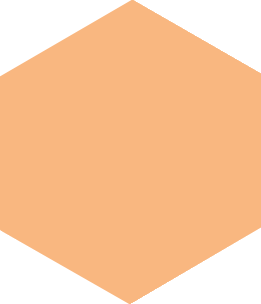
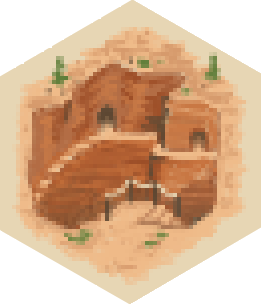
Omen Hand award (5+ cards purchased = 2 VP), brick hex asset and match wood/sheep rendering

diff --git a/src/components/VictoryPointTracker.tsx b/src/components/VictoryPointTracker.tsx
@@ -12,6 +12,9 @@ interface VictoryPointTrackerProps {
   activePlayerIndex: number
   phase: string
   longestRoadPlayerId?: number | null
+  /** Oregon's Omens: player who holds Omen Hand (5+ cards purchased); only shown when true */
+  oregonsOmensEnabled?: boolean
+  omenHandPlayerId?: number | null
 }
 
 function getVPBreakdown(vertices: Record<string, Vertex>, playerId: number) {
@@ -27,7 +30,7 @@ function getVPBreakdown(vertices: Record<string, Vertex>, playerId: number) {
   return { settlements, cities, fromSettlements, fromCities, total: fromSettlements + fromCities }
 }
 
-export function VictoryPointTracker({ vertices, players, activePlayerIndex, phase, longestRoadPlayerId }: VictoryPointTrackerProps) {
+export function VictoryPointTracker({ vertices, players, activePlayerIndex, phase, longestRoadPlayerId, oregonsOmensEnabled, omenHandPlayerId }: VictoryPointTrackerProps) {
   return (
     <div>
       <div style={{ fontSize: 11, fontWeight: 600, color: 'var(--muted)', marginBottom: 4, textTransform: 'uppercase', letterSpacing: '0.06em' }}>
@@ -36,7 +39,9 @@ export function VictoryPointTracker({ vertices, players, activePlayerIndex, phas
       {players.map((p, i) => {
         const { settlements, cities, fromSettlements, fromCities, total } = getVPBreakdown(vertices, p.id)
         const hasLongestRoad = longestRoadPlayerId === p.id
-        const totalWithLongestRoad = total + (hasLongestRoad ? 2 : 0)
+        const hasOmenHand = oregonsOmensEnabled && omenHandPlayerId === p.id
+        const bonusVP = (hasLongestRoad ? 2 : 0) + (hasOmenHand ? 2 : 0)
+        const totalDisplay = total + bonusVP
         const isActive = phase === 'setup' ? activePlayerIndex === i : activePlayerIndex === i
         return (
           <div
@@ -51,7 +56,7 @@ export function VictoryPointTracker({ vertices, players, activePlayerIndex, phas
           >
             <div style={{ display: 'flex', justifyContent: 'space-between', alignItems: 'center', marginBottom: 4 }}>
               <span style={{ fontWeight: 'bold', color: p.color, fontSize: 13 }}>{p.name}</span>
-              <span style={{ fontSize: 14, fontWeight: 600, color: 'var(--text)' }}>{totalWithLongestRoad} VP</span>
+              <span style={{ fontSize: 14, fontWeight: 600, color: 'var(--text)' }}>{totalDisplay} VP</span>
             </div>
             <div style={{ fontSize: 11, color: 'var(--muted)', lineHeight: 1.4 }}>
               {settlements > 0 && (
@@ -63,7 +68,10 @@ export function VictoryPointTracker({ vertices, players, activePlayerIndex, phas
               {hasLongestRoad && (
                 <div style={{ color: '#fbbf24', fontWeight: 600 }}>Longest Road: +2 VP</div>
               )}
-              {settlements === 0 && cities === 0 && !hasLongestRoad && (
+              {hasOmenHand && (
+                <div style={{ color: '#a78bfa', fontWeight: 600 }}>Omen Hand: +2 VP</div>
+              )}
+              {settlements === 0 && cities === 0 && !hasLongestRoad && !hasOmenHand && (
                 <div style={{ fontStyle: 'italic' }}>No structures yet</div>
               )}
             </div>

diff --git a/src/components/MultiplayerGame.tsx b/src/components/MultiplayerGame.tsx
@@ -27,6 +27,7 @@ import {
   getPlayersOnHex,
   stealResource,
   updateLongestRoad,
+  updateOmenHand,
   getTradeRate,
 } from '../game/logic'
 import {
@@ -270,7 +271,9 @@ export function MultiplayerGame({ gameId, myPlayerIndex, initialState }: Props) 
 
   const handleDrawOmenCard = () => {
     if (!isMyTurn || !canDrawOmenCard(game, playerId as PlayerId)) return
-    sendStateUpdate(drawOmenCard(game, playerId as PlayerId))
+    const next = drawOmenCard(game, playerId as PlayerId)
+    updateOmenHand(next)
+    sendStateUpdate(next)
   }
 
   const handlePlayOmenCard = (cardId: string, targets?: PlayOmenTargets) => {
@@ -415,8 +418,11 @@ export function MultiplayerGame({ gameId, myPlayerIndex, initialState }: Props) 
     }
     if (stateAfterTrade) next = { ...stateAfterTrade, players: next.players }
     sendStateUpdate(next)
-    setTradeFormOpen(false)
-    setErrorMessage(null)
+    // Defer closing the trade form to the next frame to avoid Chrome layout/compositor glitches when resources and form disappear in the same paint
+    requestAnimationFrame(() => {
+      setTradeFormOpen(false)
+      setErrorMessage(null)
+    })
   }
 
   useEffect(() => {
@@ -682,7 +688,15 @@ export function MultiplayerGame({ gameId, myPlayerIndex, initialState }: Props) 
           </div>
           {sidebarTab === 'resources' && (
             <>
-          <VictoryPointTracker vertices={game.vertices} players={game.players} activePlayerIndex={game.phase === 'setup' ? setupPlayerIndex : game.currentPlayerIndex} phase={game.phase} longestRoadPlayerId={game.longestRoadPlayerId} />
+          <VictoryPointTracker
+            vertices={game.vertices}
+            players={game.players}
+            activePlayerIndex={game.phase === 'setup' ? setupPlayerIndex : game.currentPlayerIndex}
+            phase={game.phase}
+            longestRoadPlayerId={game.longestRoadPlayerId}
+            oregonsOmensEnabled={isOmensEnabled(game)}
+            omenHandPlayerId={game.omenHandPlayerId ?? null}
+          />
           <PlayerResources
             players={game.players}
             activePlayerIndex={game.phase === 'setup' ? setupPlayerIndex : game.currentPlayerIndex}

diff --git a/src/App.tsx b/src/App.tsx
@@ -29,6 +29,7 @@ import {
   getPlayersOnHex,
   stealResource,
   updateLongestRoad,
+  updateOmenHand,
   getTradeRate,
 } from './game/logic'
 import {
@@ -797,7 +798,11 @@ export default function App() {
 
   const handleDrawOmenCard = () => {
     if (!game || !canDrawOmenCard(game, actualPlayerId as PlayerId)) return
-    setGame(drawOmenCard(game, actualPlayerId as PlayerId))
+    setGame(g => {
+      const next = drawOmenCard(g, actualPlayerId as PlayerId)
+      updateOmenHand(next)
+      return next
+    })
   }
 
   const handleTrade = (give: 'wood' | 'brick' | 'sheep' | 'wheat' | 'ore', get: 'wood' | 'brick' | 'sheep' | 'wheat' | 'ore') => {
@@ -823,8 +828,11 @@ export default function App() {
       if (stateAfterTrade) next = { ...stateAfterTrade, players: next.players }
       return next
     }))
-    setTradeFormOpen(false)
-    setErrorMessage(null)
+    // Defer closing the trade form to the next frame to avoid Chrome layout/compositor glitches when resources and form disappear in the same paint
+    requestAnimationFrame(() => {
+      setTradeFormOpen(false)
+      setErrorMessage(null)
+    })
   }
 
   const isPlaying = game.phase === 'playing' && !actualWinner
@@ -1103,6 +1111,8 @@ export default function App() {
             activePlayerIndex={game.phase === 'setup' ? setupPlayerIndex : game.currentPlayerIndex}
             phase={game.phase}
             longestRoadPlayerId={game.longestRoadPlayerId}
+            oregonsOmensEnabled={isOmensEnabled(game)}
+            omenHandPlayerId={game.omenHandPlayerId ?? null}
           />
 
           <PlayerResources

diff --git a/src/components/GameGuide.tsx b/src/components/GameGuide.tsx
@@ -229,6 +229,7 @@ export function GameGuide() {
                   <li>Settlement: 1 victory point</li>
                   <li>City: 2 victory points</li>
                   <li>Longest Road: 2 victory points</li>
+                  <li>Omen Hand: 2 victory points (Oregon&apos;s Omens only)</li>
                 </ul>
               </section>
 
@@ -253,6 +254,9 @@ export function GameGuide() {
                   <li><strong>Buffs</strong> go into your hand. You may play <strong>one buff per turn</strong> during your turn (before or after building/trading).</li>
                   <li><strong>Debuffs</strong> are resolved immediately when drawn — you don&apos;t keep them. Some can be partly negated by Well-Stocked Pantry.</li>
                 </ul>
+                <p style={{ margin: '8px 0', lineHeight: 1.6, color: 'var(--ink)', opacity: 0.9 }}>
+                  <strong>Omen Hand:</strong> The first player to have <strong>purchased</strong> (drawn from the deck) 5 or more Omen cards receives the &quot;Omen Hand&quot; award, worth 2 victory points. If another player has purchased more cards than the current holder, they take the award and the 2 VP (the previous holder loses 2 VP). Count is total cards ever purchased, not cards currently in hand.
+                </p>
                 <h4 style={{ margin: '16px 0 8px', fontSize: 15, fontWeight: 'bold', color: 'var(--ink)' }}>Buff cards</h4>
                 <ul style={{ margin: '0 0 8px', paddingLeft: 20, lineHeight: 1.7, color: 'var(--ink)', opacity: 0.9, listStyle: 'none' }}>
                   {BUFF_IDS.map((id) => (

diff --git a/src/game/logic.ts b/src/game/logic.ts
@@ -448,3 +448,27 @@ export function updateLongestRoad(state: GameState): void {
   }
 }
 
+const MIN_OMEN_HAND = 5
+
+/** Update Omen Hand award (Oregon's Omens only): player with 5+ cards purchased gets 2 VP. Call after drawOmenCard. Tie: current holder keeps. */
+export function updateOmenHand(state: GameState): void {
+  if (state.omensDeck == null) return
+  const maxPurchased = Math.max(0, ...state.players.map(p => p.omenCardsPurchased ?? 0))
+  if (maxPurchased < MIN_OMEN_HAND) return
+  const candidates = state.players.filter(p => (p.omenCardsPurchased ?? 0) === maxPurchased)
+  const currentHolder = state.omenHandPlayerId ?? null
+  const keepCurrent = currentHolder != null && candidates.some(p => p.id === currentHolder)
+  const newOmenHandPlayerId = keepCurrent ? currentHolder : (candidates[0]?.id ?? null)
+  const oldOmenHandPlayerId = state.omenHandPlayerId ?? null
+  if (oldOmenHandPlayerId === newOmenHandPlayerId) return
+  if (oldOmenHandPlayerId) {
+    const oldPlayer = state.players[oldOmenHandPlayerId - 1]
+    if (oldPlayer) oldPlayer.victoryPoints = Math.max(0, oldPlayer.victoryPoints - 2)
+  }
+  if (newOmenHandPlayerId) {
+    const newPlayer = state.players[newOmenHandPlayerId - 1]
+    if (newPlayer) newPlayer.victoryPoints += 2
+  }
+  state.omenHandPlayerId = newOmenHandPlayerId
+}
+

diff --git a/src/pages/HowToPlayPage.tsx b/src/pages/HowToPlayPage.tsx
@@ -87,13 +87,14 @@ export function HowToPlayPage() {
             <li>Settlement: 1 VP</li>
             <li>City: 2 VP</li>
             <li>Longest Road (5+ connected roads): 2 VP</li>
+            <li>Omen Hand (5+ Omen cards purchased, Oregon&apos;s Omens only): 2 VP</li>
           </ul>
         </section>
 
         <section style={sectionStyle}>
           <h2 style={h2Style}>Oregon's Omens (optional)</h2>
           <p style={pStyle}>
-            When enabled, you can spend 1 Wheat, 1 Sheep, and 1 Ore to draw an Omen card. Cards can give one-time bonuses (e.g. cheaper builds, extra resources) or temporary effects. Some cards help you; others are debuffs. Use the in-game Game Guide (📖 button) for full rules.
+            When enabled, you can spend 1 Wheat, 1 Sheep, and 1 Ore to draw an Omen card. Cards can give one-time bonuses (e.g. cheaper builds, extra resources) or temporary effects. Some cards help you; others are debuffs. The first player to have <strong>purchased</strong> 5 or more Omen cards earns the Omen Hand award (2 VP). Use the in-game Game Guide (📖 button) for full rules.
           </p>
         </section>
 

diff --git a/src/game/types.ts b/src/game/types.ts
@@ -64,6 +64,8 @@ export interface Player {
   roadsLeft: number
   /** Oregon's Omens: card IDs in hand (only when Omens enabled) */
   omensHand?: string[]
+  /** Oregon's Omens: total cards ever purchased (drawn from deck), for Omen Hand award */
+  omenCardsPurchased?: number
   /** Oregon's Omens: reset at start of turn */
   hasDrawnOmenThisTurn?: boolean
   /** Oregon's Omens: reset at start of turn */
@@ -92,6 +94,8 @@ export interface GameState {
   lastRobbery: { robbingPlayerId: PlayerId; targetPlayerId: PlayerId; resource: Terrain | null } | null
   /** Player ID who currently has the longest road (minimum 5 roads) */
   longestRoadPlayerId: PlayerId | null
+  /** Oregon's Omens: player ID who holds the Omen Hand award (5+ cards purchased); only when Omens enabled */
+  omenHandPlayerId?: PlayerId | null
   /** Oregon's Omens: draw pile (only when Omens enabled) */
   omensDeck?: string[]
   /** Oregon's Omens: played/discarded cards (only when Omens enabled) */

diff --git a/src/components/HexBoard.tsx b/src/components/HexBoard.tsx
@@ -195,11 +195,11 @@ export function HexBoard({
               <g clipPath={`url(#hex-clip-${h.id})`}>
                 <image
                   href="/brick-hex.png"
-                  x={center.x - HEX_R * 2}
-                  y={center.y - HEX_R * 2}
-                  width={HEX_R * 4}
-                  height={HEX_R * 4}
-                  preserveAspectRatio="none"
+                  x={center.x - HEX_R}
+                  y={center.y - HEX_R}
+                  width={HEX_R * 2}
+                  height={HEX_R * 2}
+                  preserveAspectRatio="xMidYMid meet"
                   style={{ imageRendering: 'pixelated', pointerEvents: 'none' }}
                 />
               </g>

diff --git a/src/game/state.ts b/src/game/state.ts
@@ -80,6 +80,7 @@ export function createInitialState(
     ? players.map(p => ({
         ...p,
         omensHand: [],
+        omenCardsPurchased: 0,
         hasDrawnOmenThisTurn: false,
         hasPlayedOmenThisTurn: false,
       }))
@@ -107,6 +108,7 @@ export function createInitialState(
   if (oregonsOmens) {
     return {
       ...baseState,
+      omenHandPlayerId: null,
       omensDeck: createOmensDeck(),
       omensDiscardPile: [],
       activeOmensEffects: [],

diff --git a/src/game/omens.ts b/src/game/omens.ts
@@ -503,6 +503,7 @@ export function drawOmenCard(state: GameState, playerId: PlayerId): GameState {
     ...player,
     resources: newResources,
     omensHand: newHand,
+    omenCardsPurchased: (player.omenCardsPurchased ?? 0) + 1,
     hasDrawnOmenThisTurn: true,
   }
 
